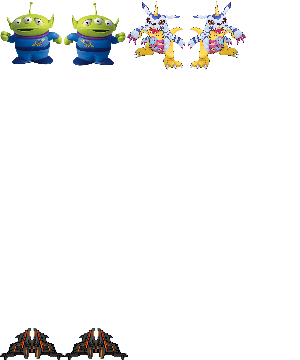
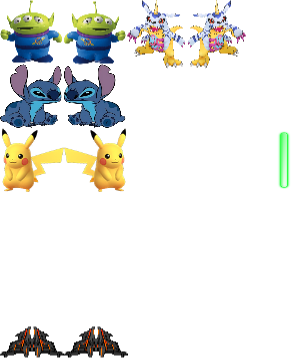
cambio marcianos, pinto correctamente el you win y corrijo la bajada de los marcianos

Changed region(s): [[0.0, 0.0, 0.84, 0.55], [0.0, 0.8861, 0.45, 1.0], [0.9, 0.3667, 0.99, 0.55]]

diff --git a/src/codigo/VentanaJuego.java b/src/codigo/VentanaJuego.java
@@ -31,12 +31,12 @@ public class VentanaJuego extends javax.swing.JFrame {
 
     static int ANCHOPANTALLA = 600;
     static int ALTOPANTALLA = 450;
-    public static Label panelPuntuacion = new Label(); 
+    public static Label panelPuntuacion = new Label();
     int puntuacion = 0;
     //Numero de marcianos que van a aparecer
-    public int filas = 4;
+    public int filas = 6;
     public int columnas = 10;
-    int marcianosMuertos = 0;
+    
     BufferedImage buffer = null;
 
     Nave miNave = new Nave();
@@ -53,7 +53,7 @@ public class VentanaJuego extends javax.swing.JFrame {
     BufferedImage plantilla = null;
     Image[][] imagenes;
     //Lleva un registro de la puntuación del juego
-    
+
     //control del fin de partida
     boolean gameOver = false;
     boolean partidaAcabada = false;
@@ -70,15 +70,16 @@ public class VentanaJuego extends javax.swing.JFrame {
      */
     public VentanaJuego() {
         initComponents();
-        
+
         reproduce("/Sonidos/OyS.wav", 5);
-       
-         try {
-         fondoPantalla = ImageIO.read(getClass().getResource("/imagenes/fondo00.png"));
-       } catch (IOException ex) {}
-         setLocationRelativeTo(null);
-         Font fuente;
-         fuente = new Font("neue helvetica", Font.BOLD, 30);
+
+        try {
+            fondoPantalla = ImageIO.read(getClass().getResource("/imagenes/fondo00.png"));
+        } catch (IOException ex) {
+        }
+        setLocationRelativeTo(null);
+        Font fuente;
+        fuente = new Font("neue helvetica", Font.BOLD, 30);
         panelPuntuacion.setFont(fuente);
         panelPuntuacion.setForeground(white);
         panelPuntuacion.setBackground(Color.BLACK);
@@ -93,7 +94,7 @@ public class VentanaJuego extends javax.swing.JFrame {
         //5º lo que mide de alto el sprite en el spritesheet
         //6º para cambiar el tamaño de los sprites
         imagenes = cargaImagenes("/imagenes/invaders3.png", 5, 4, 64, 64, 2);
-        
+
         miDisparo.imagen = imagenes[2][4];
         setSize(ANCHOPANTALLA, ALTOPANTALLA);
         buffer = (BufferedImage) jPanel1.createImage(ANCHOPANTALLA, ALTOPANTALLA);
@@ -101,7 +102,7 @@ public class VentanaJuego extends javax.swing.JFrame {
         temporizador.start();
 
         //Inicializo la posición inicial de la nave
-        miNave.imagen = imagenes[5][1];      
+        miNave.imagen = imagenes[5][1];
         miNave.x = ANCHOPANTALLA / 2 - miNave.imagen.getWidth(this) / 2;
         miNave.y = ALTOPANTALLA - miNave.imagen.getHeight(this) - 40;
 
@@ -114,8 +115,8 @@ public class VentanaJuego extends javax.swing.JFrame {
         creaFilaDeMarcianos(1, 0, 0);
         creaFilaDeMarcianos(2, 0, 2);
         creaFilaDeMarcianos(3, 0, 2);
-        //creaFilaDeMarcianos(4, 2, 2);
-        //creaFilaDeMarcianos(5, 2, 2);
+        creaFilaDeMarcianos(4, 1, 0);
+        creaFilaDeMarcianos(5, 2, 0);
         //creaFilaDeMarcianos(6, 3, 2);
         //creaFilaDeMarcianos(7, 3, 2);
 //        for (int i = 0; i < filas; i++) {
@@ -147,7 +148,7 @@ public class VentanaJuego extends javax.swing.JFrame {
             listaMarcianos[numeroFila][j] = new Marciano();
             listaMarcianos[numeroFila][j].imagen1 = imagenes[spriteFila][spriteColumna];
             listaMarcianos[numeroFila][j].imagen2 = imagenes[spriteFila][spriteColumna + 1];
-           
+
             listaMarcianos[numeroFila][j].x = j * (15 + listaMarcianos[numeroFila][j].imagen1.getWidth(null));
             listaMarcianos[numeroFila][j].y = numeroFila * (10 + listaMarcianos[numeroFila][j].imagen1.getHeight(null));
         }
@@ -165,7 +166,7 @@ public class VentanaJuego extends javax.swing.JFrame {
         } catch (IOException ex) {
         }
 
-        Image[][] arrayImagenes = new Image[numFilas+1][numColumnas+1];
+        Image[][] arrayImagenes = new Image[numFilas + 1][numColumnas + 1];
 
         //Cargo las imagenes de forma individual en cada imagen del array de imagenes
         for (int i = 0; i < numFilas; i++) {
@@ -202,25 +203,25 @@ public class VentanaJuego extends javax.swing.JFrame {
 
     private void bucleDelJuego() {
         Graphics2D g2 = (Graphics2D) buffer.getGraphics();
-        
-        if (!gameOver){
+
+        if (!gameOver) {
             //Gobierna (Se encarga) el redibujado de los objetos en el jPanel1
             //Primero borro todo todo lo que hay en el buffer
             contador++;
-            
+
             g2.setColor(Color.BLACK);
             g2.fillRect(0, 0, ANCHOPANTALLA, ALTOPANTALLA);
-            g2.drawImage(fondoPantalla, 0, 0, null); 
+            g2.drawImage(fondoPantalla, 0, 0, null);
             //////////////////////////////////////////////////////////////////////
             //Redibujaremos aquí cada elemento
             //g2.drawImage(miMarciano.imagen1, miMarciano.x, miMarciano.y, null);
-            if(!partidaAcabada){
+            if (!partidaAcabada) {
                 iniciaPartida(g2);
             }
-        } else{
-            
+        } else {
+
             finDePartida(g2);
-        }   
+        }
         ////////////////////////////////////////////////////////////////////
         //****************** fase final, se dibuja ***********************//
         //****************** el buffer de golpe sobre el Jpanel***********//
@@ -228,21 +229,23 @@ public class VentanaJuego extends javax.swing.JFrame {
         g2.drawImage(buffer, 0, 0, null);
 
     }
-    private void iniciaPartida (Graphics2D g2){
-            g2.drawImage(miDisparo.imagen, miDisparo.x, miDisparo.y, null);
-            g2.drawImage(miNave.imagen, miNave.x, miNave.y, null);
-            pintaMarcianos(g2);
-            chequeaColision();
-            miNave.mueve();
-            miDisparo.mueve();
+
+    private void iniciaPartida(Graphics2D g2) {
+        g2.drawImage(miDisparo.imagen, miDisparo.x, miDisparo.y, null);
+        g2.drawImage(miNave.imagen, miNave.x, miNave.y, null);
+        pintaMarcianos(g2);
+        chequeaColision();
+        miNave.mueve();
+        miDisparo.mueve();
     }
+
     private void chequeaColision() {
-         //Marco para el borde del marciano
+        //Marco para el borde del marciano
         Rectangle2D.Double rectanguloMarciano = new Rectangle2D.Double();
         Rectangle2D.Double rectanguloDisparo = new Rectangle2D.Double();
         //marco para guardar el borde de la imagen de la nave
         Rectangle2D.Double rectanguloNave = new Rectangle2D.Double();
-        rectanguloNave.setFrame(miNave.x -ANCHOPANTALLA, miNave.y, ANCHOPANTALLA*2, miNave.imagen.getHeight(null));
+        rectanguloNave.setFrame(miNave.x - ANCHOPANTALLA, miNave.y, ANCHOPANTALLA * 2, miNave.imagen.getHeight(null));
         //Marco para el borde del disparo
         rectanguloDisparo.setFrame(miDisparo.x,
                 miDisparo.y,
@@ -258,53 +261,48 @@ public class VentanaJuego extends javax.swing.JFrame {
                             listaMarcianos[i][j].imagen1.getHeight(null)
                     );
                     if (rectanguloDisparo.intersects(rectanguloMarciano)) {
-                        
+
                         listaMarcianos[i][j].vivo = false;
+
                         reproduce("/sonidos/invaderkilled.wav", 0);
                         puntuacion += 100;
+                        
                         panelPuntuacion.setText("" + puntuacion);
                         listaMarcianos[i][j].x = ANCHOPANTALLA / 2 - listaMarcianos[i][j].imagen1.getWidth(null) / 2;
                         miDisparo.posicionaDisparo(miNave);
                         miDisparo.y = 1000;
                         miDisparo.disparado = false;
-                       
+
                     }
-                    if (rectanguloNave.intersects(rectanguloMarciano) || puntuacion == filas*columnas*100){
+                    if (rectanguloNave.intersects(rectanguloMarciano)) {
                         //Si choca un marciano con la nave  
                         gameOver = true;
-            }
+                    }
                 }
             }
         }
-        
-           
-   
-            
-            
-            
-    
 
     }
-    private void finDePartida (Graphics2D gameOver){
+
+    private void finDePartida(Graphics2D gameOver) {
         partidaAcabada = true;
-        if(puntuacion == filas*columnas*100){
+        if (puntuacion == filas * columnas * 100) {
             try {
                 Image imagenFin = ImageIO.read((getClass().getResource("/imagenes/youwin.png")));
                 gameOver.drawImage(imagenFin, 0, 0, null);
             } catch (IOException ex) {
             }
         }
-        if(puntuacion != filas*columnas*100){
-        try {
-            Image imagenFin = ImageIO.read((getClass().getResource("/imagenes/gameover0.png")));
-            gameOver.drawImage(imagenFin, 0, 0, null);
-        } catch (IOException ex) {
+        if (puntuacion != filas * columnas * 100) {
+            try {
+                Image imagenFin = ImageIO.read((getClass().getResource("/imagenes/gameover0.png")));
+                gameOver.drawImage(imagenFin, 0, 0, null);
+            } catch (IOException ex) {
+            }
         }
-        }
-        
-        
-        
-}
+
+    }
+
     private void cambiaDireccionMarcianos() {
         for (int i = 0; i < filas; i++) {
             for (int j = 0; j < columnas; j++) {
@@ -314,7 +312,17 @@ public class VentanaJuego extends javax.swing.JFrame {
         }
 
     }
-   
+
+    private void cambiaAlturaMarcianos() {
+        for (int i = 0; i < filas; i++) {
+            for (int j = 0; j < columnas; j++) {
+                listaMarcianos[i][j].y += listaMarcianos[0][0].imagen1.getHeight(null)/2;
+
+            }
+        }
+
+    }
+
     private void pintaMarcianos(Graphics2D _g2) {
 
         int anchoMarciano = listaMarcianos[0][0].imagen1.getWidth(null);
@@ -327,14 +335,10 @@ public class VentanaJuego extends javax.swing.JFrame {
                     //de todos los marcianos
                     if (listaMarcianos[i][j].x + anchoMarciano == ANCHOPANTALLA || listaMarcianos[i][j].x == 0) {
                         direccionMarcianos = true;
-                        //El siguiente bucle for controla la bajada de los marcianos
-                        for (int k = 0; k < filas; k++) {
-                            for (int m = 0; m < columnas; m++) {
-                                listaMarcianos[k][m].y += listaMarcianos[k][m].imagen1.getHeight(null)/10 ; //El numero entre el que divido va a controlar lo que tardan en llegar abajo los marcianos
-                            }
-                        }
+
+                        
                     }
-                    
+
                     if (contador < 50) {
                         _g2.drawImage(listaMarcianos[i][j].imagen1,
                                 listaMarcianos[i][j].x,
@@ -349,17 +353,21 @@ public class VentanaJuego extends javax.swing.JFrame {
                         contador = 0;
                     }
                 }
+                if (puntuacion == filas * columnas * 100) { //Si alcanzo la puntuación significa que he completado el nivel y por lo tanto se acaba la partida
+                        //Si choca un marciano con la nave  
+                        gameOver = true;
+                    }
             }
 
         }
 
         if (direccionMarcianos) {
             cambiaDireccionMarcianos();
-
-            direccionMarcianos = false;
+            cambiaAlturaMarcianos();
+            direccionMarcianos = !direccionMarcianos;
         }
     }
-    
+
     /**
      * This method is called from within the constructor to initialize the form.
      * WARNING: Do NOT modify this code. The content of this method is always
@@ -432,13 +440,13 @@ public class VentanaJuego extends javax.swing.JFrame {
     }// </editor-fold>//GEN-END:initComponents
 
     private void formKeyPressed(java.awt.event.KeyEvent evt) {//GEN-FIRST:event_formKeyPressed
-        if(partidaAcabada){
-            switch (evt.getKeyCode()){
+        if (partidaAcabada) {
+            switch (evt.getKeyCode()) {
                 case KeyEvent.VK_ENTER:
                     partidaAcabada = false;
             }
         }
-        if(!partidaAcabada){
+        if (!partidaAcabada) {
             switch (evt.getKeyCode()) {
                 case KeyEvent.VK_LEFT:
                     miNave.setPulsadoIzquierda(true);
@@ -447,28 +455,33 @@ public class VentanaJuego extends javax.swing.JFrame {
 
                     miNave.setPulsadoDerecha(true);
                     break;
+                case KeyEvent.VK_SPACE:
+                    reproduce("/sonidos/shoot.wav", 0);
+                    miDisparo.posicionaDisparo(miNave);
+                    miDisparo.disparado = true;
+                    break;
                 case KeyEvent.VK_DOWN:
                     reproduce("/sonidos/shoot.wav", 0);
                     miDisparo.posicionaDisparo(miNave);
                     miDisparo.disparado = true;
                     break;
             }
-        }    
+        }
     }//GEN-LAST:event_formKeyPressed
 
     private void formKeyReleased(java.awt.event.KeyEvent evt) {//GEN-FIRST:event_formKeyReleased
-        if(!partidaAcabada){
+        if (!partidaAcabada) {
             switch (evt.getKeyCode()) {
 
-                    case KeyEvent.VK_LEFT:
-                        miNave.setPulsadoIzquierda(false);
-                        break;
-                    case KeyEvent.VK_RIGHT:
-                        miNave.setPulsadoDerecha(false);
-                        break;
+                case KeyEvent.VK_LEFT:
+                    miNave.setPulsadoIzquierda(false);
+                    break;
+                case KeyEvent.VK_RIGHT:
+                    miNave.setPulsadoDerecha(false);
+                    break;
 
             }
-        }    
+        }
     }//GEN-LAST:event_formKeyReleased
 
     /**
